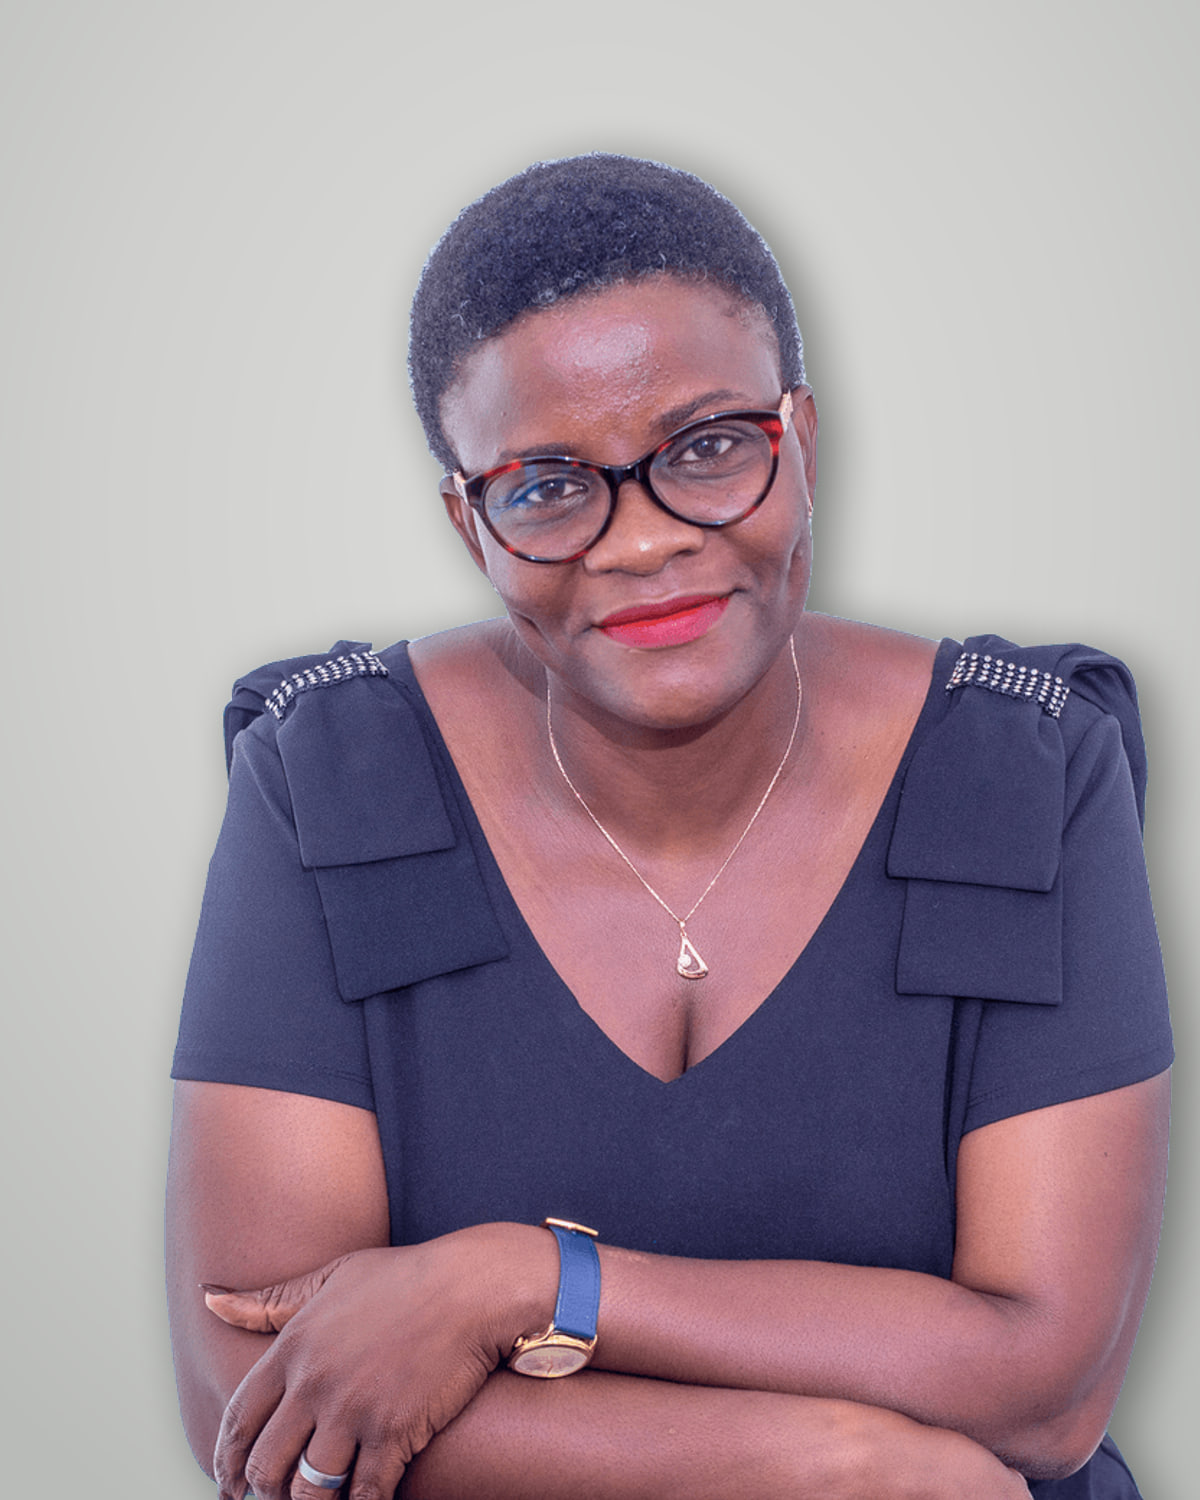
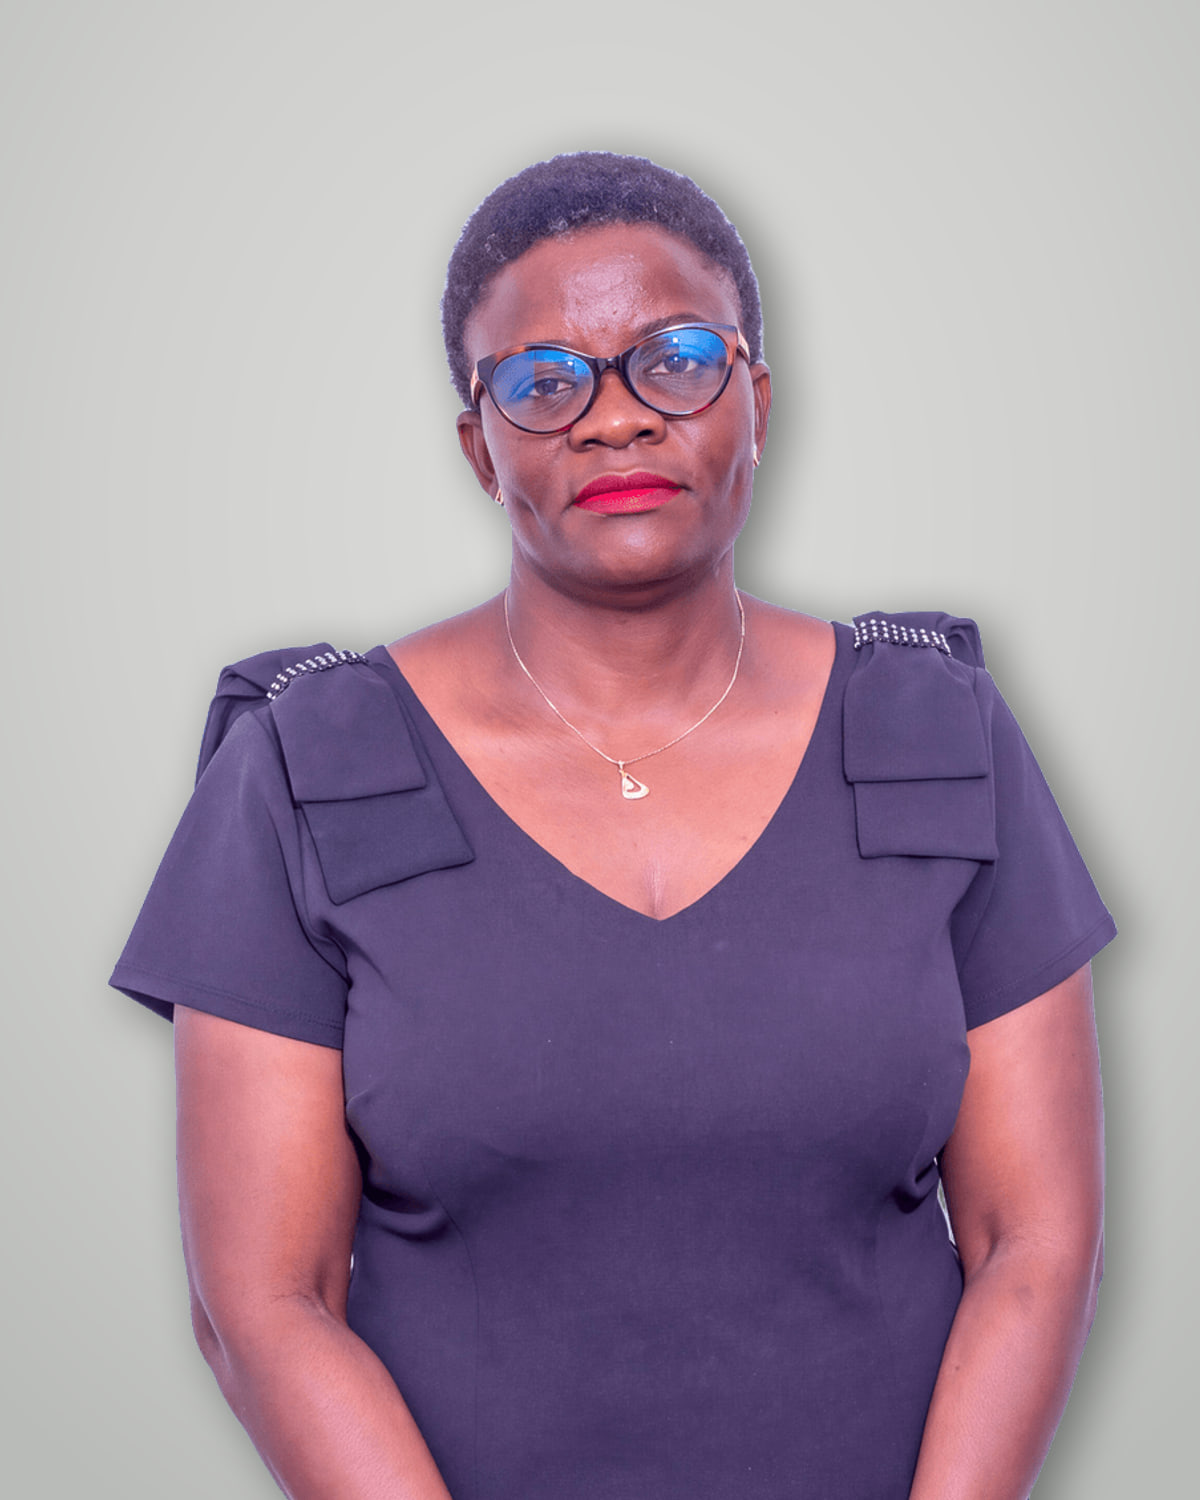
Use the firm's updated photographs
- New full-resolution team photograph (the photographer's edit already
  removes the neighbouring firm's door plate, so the paint-out step is gone)
- New studio portraits for Terence Tamuno, Queenta Asibong and Roland Abeng
- Roland Abeng's office photo, hero cut-out and the Chambers article cover
  regenerated from the new edit
- Updated public images get versioned names so cached copies are not served

diff --git a/app/[locale]/page.tsx b/app/[locale]/page.tsx
@@ -66,7 +66,7 @@ export default async function HomePage({ params }: Props) {
     <>
       {/* Hero */}
       <section className="relative isolate overflow-hidden bg-charcoal text-white">
-        <Image src="/images/team.jpg" alt="" fill priority sizes="100vw" quality={65} className="-z-10 object-cover opacity-20" style={{ objectPosition: "50% 20%" }} />
+        <Image src="/images/team-v2.jpg" alt="" fill priority sizes="100vw" quality={65} className="-z-10 object-cover opacity-20" style={{ objectPosition: "50% 20%" }} />
         <div aria-hidden className="absolute inset-0 -z-10 bg-gradient-to-r from-charcoal via-charcoal/90 to-charcoal/55" />
         <div className="shell grid items-center gap-12 pb-32 pt-14 md:pb-40 lg:grid-cols-12 lg:pt-20">
           <div className="lg:col-span-7">
@@ -116,7 +116,7 @@ export default async function HomePage({ params }: Props) {
                 <div className="absolute inset-0 overflow-hidden rounded-b-[2.5rem]">
                   <div className="absolute inset-x-[6%] bottom-0 top-[26%] rounded-[2.5rem] bg-gold" />
                   <Image
-                    src="/images/roland-abeng-cutout.webp"
+                    src="/images/roland-abeng-cutout-v2.webp"
                     alt={`${partner.name}, ${partner.title}`}
                     fill
                     priority
@@ -165,7 +165,7 @@ export default async function HomePage({ params }: Props) {
         <div className="shell grid items-center gap-14 lg:grid-cols-12">
           <div className="relative lg:col-span-6">
             <div className="relative aspect-[4/3] overflow-hidden rounded-[2rem]">
-              <Image src="/images/team.jpg" alt={t.heroCaption} fill sizes="(min-width: 1024px) 45vw, 100vw" quality={75} className="object-cover" style={{ objectPosition: "50% 20%" }} />
+              <Image src="/images/team-v2.jpg" alt={t.heroCaption} fill sizes="(min-width: 1024px) 45vw, 100vw" quality={75} className="object-cover" style={{ objectPosition: "50% 20%" }} />
             </div>
             <div className="absolute -bottom-8 right-6 hidden w-48 overflow-hidden rounded-[1.5rem] border-[6px] border-white shadow-xl sm:block">
               <div className="relative aspect-[4/3]">

diff --git a/app/[locale]/firm/page.tsx b/app/[locale]/firm/page.tsx
@@ -39,7 +39,7 @@ export default async function FirmPage({ params }: Props) {
         <div className="shell grid items-center gap-14 lg:grid-cols-12">
           <div className="relative lg:col-span-6">
             <div className="relative aspect-[4/3] overflow-hidden rounded-[2rem]">
-              <Image src="/images/team.jpg" alt={dict.home.heroCaption} fill priority quality={80} sizes="(min-width: 1024px) 45vw, 100vw" className="object-cover" style={{ objectPosition: "50% 15%" }} />
+              <Image src="/images/team-v2.jpg" alt={dict.home.heroCaption} fill priority quality={80} sizes="(min-width: 1024px) 45vw, 100vw" className="object-cover" style={{ objectPosition: "50% 15%" }} />
             </div>
             <div className="absolute -bottom-6 left-6 flex items-center gap-3 rounded-2xl bg-white px-5 py-4 shadow-xl">
               <span className="flex h-11 w-11 items-center justify-center rounded-full bg-gold">
@@ -133,7 +133,7 @@ export default async function FirmPage({ params }: Props) {
           <div className="shell">
             <Link href={href(locale, "team", partner.slug)} className="card card-hover group grid overflow-hidden md:grid-cols-12">
               <div className="relative aspect-[4/5] md:col-span-4 md:aspect-auto md:min-h-[26rem]">
-                <Image src="/images/roland-abeng-office.jpg" alt={`${partner.name}, ${partner.title}`} fill quality={80} sizes="(min-width: 768px) 32vw, 100vw" className="object-cover" style={{ objectPosition: "50% 30%" }} />
+                <Image src="/images/roland-abeng-office-v2.jpg" alt={`${partner.name}, ${partner.title}`} fill quality={80} sizes="(min-width: 768px) 32vw, 100vw" className="object-cover" style={{ objectPosition: "50% 30%" }} />
               </div>
               <div className="flex flex-col p-8 md:col-span-8 md:p-12">
                 <p className="eyebrow self-start">{t.leadershipTitle}</p>

diff --git a/app/admin/connexion/page.tsx b/app/admin/connexion/page.tsx
@@ -14,7 +14,7 @@ export default async function LoginPage({ searchParams }: { searchParams: Promis
   return (
     <main className="grid min-h-dvh lg:grid-cols-2">
       <div className="relative hidden bg-ink lg:block">
-        <Image src="/images/team.jpg" alt="" fill priority sizes="50vw" className="object-cover opacity-55" style={{ objectPosition: "40% 20%" }} />
+        <Image src="/images/team-v2.jpg" alt="" fill priority sizes="50vw" className="object-cover opacity-55" style={{ objectPosition: "40% 20%" }} />
         <div className="absolute inset-x-0 bottom-0 p-12 text-paper">
           <p className="font-serif text-3xl">The Abeng Law Firm</p>
           <p className="mt-2 text-mist">Administration du site</p>

diff --git a/app/[locale]/team/page.tsx b/app/[locale]/team/page.tsx
@@ -47,7 +47,7 @@ export default async function TeamPage({ params }: Props) {
             <Link href={href(locale, "team", partner.slug)} className="card card-hover group grid overflow-hidden md:grid-cols-12">
               <div className="relative aspect-[4/5] md:col-span-5 md:aspect-auto md:min-h-[32rem]">
                 <Image
-                  src="/images/roland-abeng-office.jpg"
+                  src="/images/roland-abeng-office-v2.jpg"
                   alt={`${partner.name}, ${partner.title}`}
                   fill
                   priority

diff --git a/app/[locale]/layout.tsx b/app/[locale]/layout.tsx
@@ -41,7 +41,7 @@ export async function generateMetadata({ params }: { params: Promise<{ locale: s
       siteName: dict.meta.siteName,
       locale: locale === "fr" ? "fr_CM" : "en_GB",
       alternateLocale: locale === "fr" ? "en_GB" : "fr_CM",
-      images: [{ url: "/images/team.jpg", width: 2048, height: 1365, alt: dict.home.heroCaption }],
+      images: [{ url: "/images/team-v2.jpg", width: 2400, height: 1510, alt: dict.home.heroCaption }],
     },
     twitter: { card: "summary_large_image" },
     formatDetection: { telephone: false },

diff --git a/lib/structured-data.ts b/lib/structured-data.ts
@@ -12,7 +12,7 @@ export function legalServiceSchema(locale: Locale) {
     name: "The Abeng Law Firm",
     url: `${siteUrl}${href(locale)}`,
     logo: `${siteUrl}/images/crest.png`,
-    image: `${siteUrl}/images/team.jpg`,
+    image: `${siteUrl}/images/team-v2.jpg`,
     foundingDate: "1998",
     founder: { "@type": "Person", name: "Roland Abeng" },
     telephone: phones[0],

diff --git a/components/site/blocks.tsx b/components/site/blocks.tsx
@@ -15,7 +15,7 @@ export function PageIntro({
   lede,
   eyebrow,
   crumbs,
-  image = "/images/team.jpg",
+  image = "/images/team-v2.jpg",
   children,
 }: {
   title: string;
